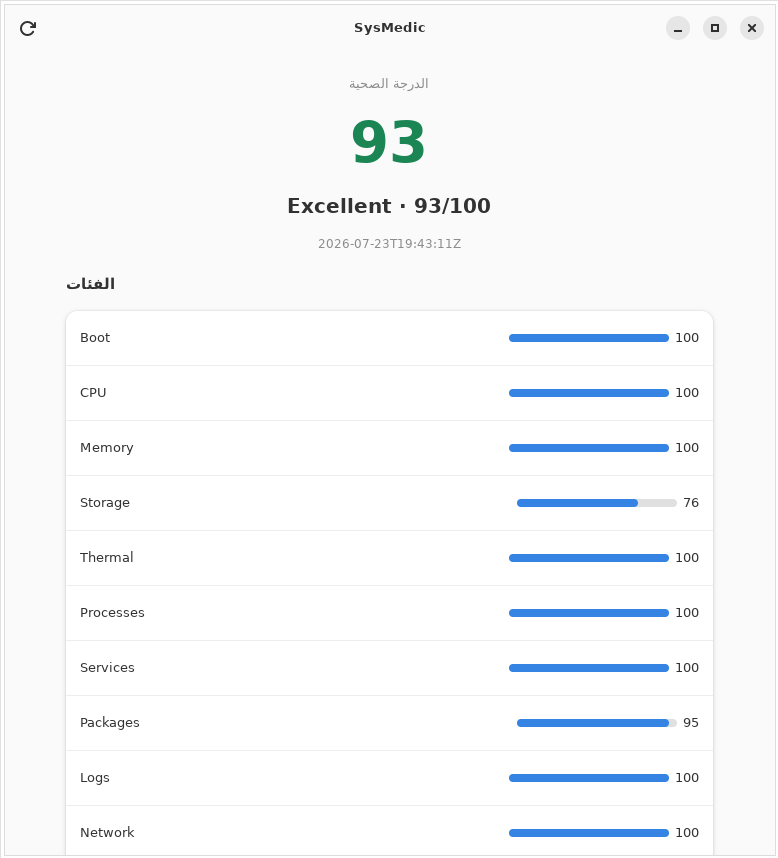
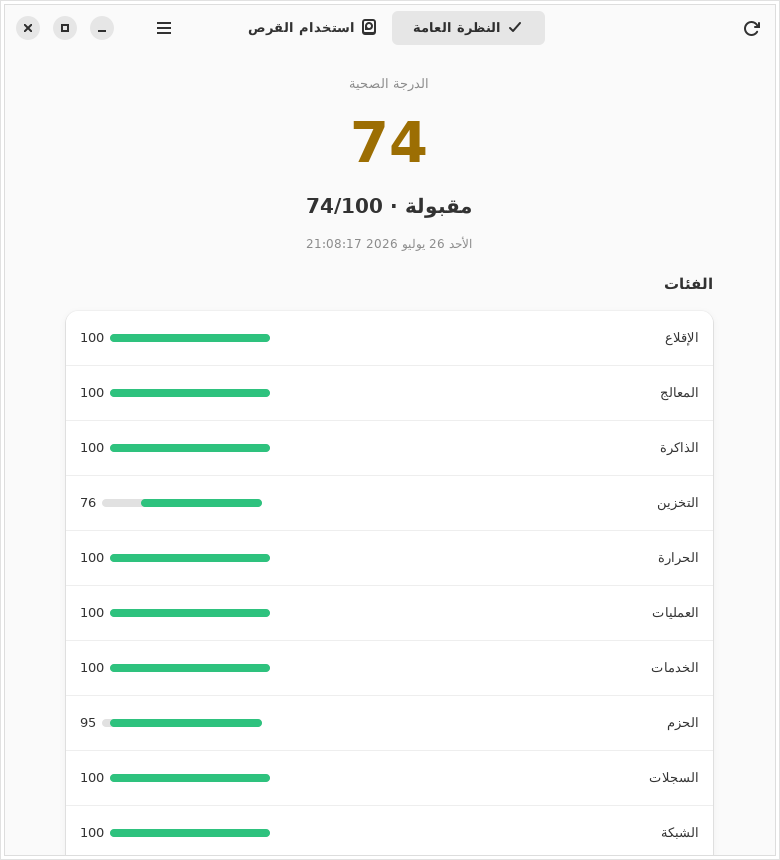
release: 0.2.0 — version bump, changelog, metainfo, live Arabic screenshot
- Workspace version 0.2.0; AppStream metainfo gains the 0.2.0 release
  entry; the changelog's Unreleased section becomes [0.2.0] and records
  this round (dnf security advisories, pacman cache finding, screenshot).
- docs/screenshots/dashboard-ar.png is now a capture of the real app
  running under ar_SA.UTF-8 on Xvfb: fully mirrored RTL layout, Arabic
  categories/grade/timestamp — the review's "RTL unverified" caveat is
  now verified end-to-end.

The v0.2.0 tag goes on main once this merges; the tag-triggered release
workflow then builds and attaches the .deb as a draft release.

Claude-Session: https://claude.ai/code/session_01EWGRCW7vZmJdsgni1vRGWP

diff --git a/CHANGELOG.md b/CHANGELOG.md
@@ -6,7 +6,20 @@ All notable changes to SysMedic are documented here. The format follows
 
 ## [Unreleased]
 
+## [0.2.0] — 2026-07-26
+
+The hardening-and-honesty release: everything from the comprehensive
+engineering/UX/security review, the complete Arabic story, and package
+hygiene beyond Debian.
+
 ### Added
+- **dnf security advisories** — `security_upgrades` is populated from
+  `dnf updateinfo --list --security`, with a dnf-appropriate remedy.
+- **pacman cache finding** — `packages.pacman_cache_large` (with bilingual
+  knowledge and a `paccache -rk2` hint); pacman never prunes its cache.
+- **Real Arabic screenshot** — `dashboard-ar.png` is now captured from the
+  live app running under an `ar_SA.UTF-8` locale, confirming full RTL
+  mirroring end-to-end.
 - **Finding titles in Arabic** — the finding titles/summaries themselves now
   localize through a per-id message catalog in the knowledge base (templates
   with `{0}`-style placeholders filled from the finding's recorded values),
